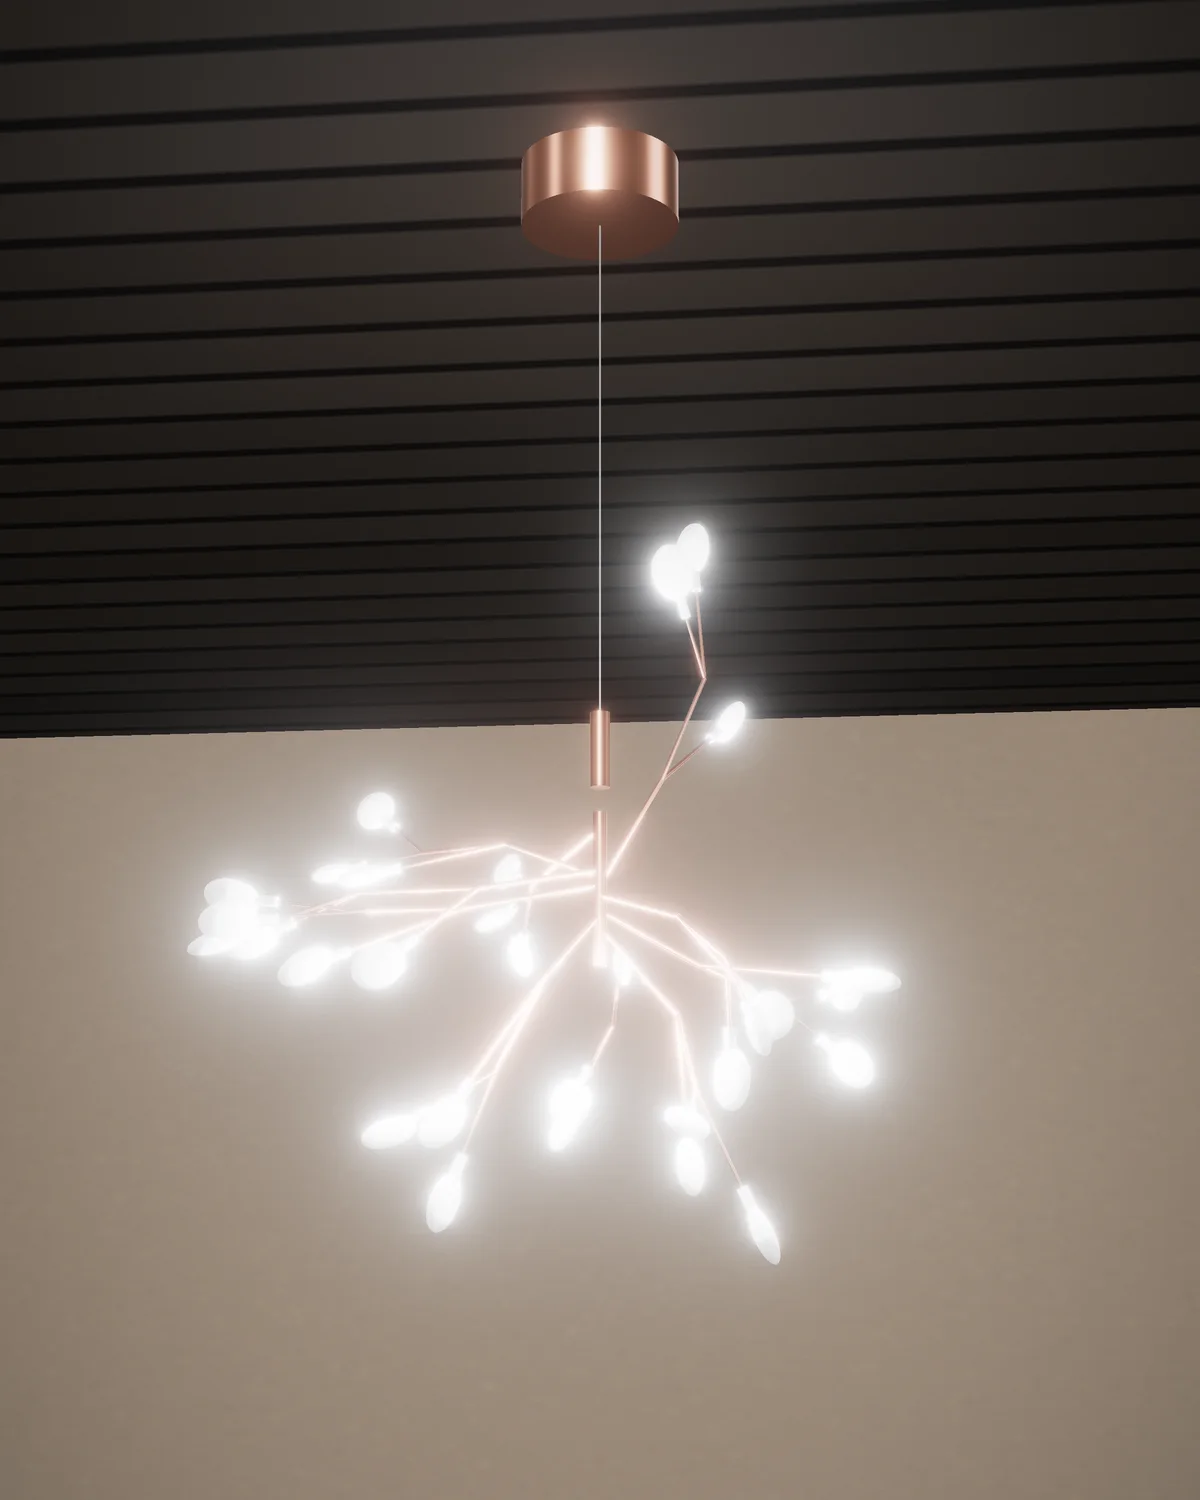
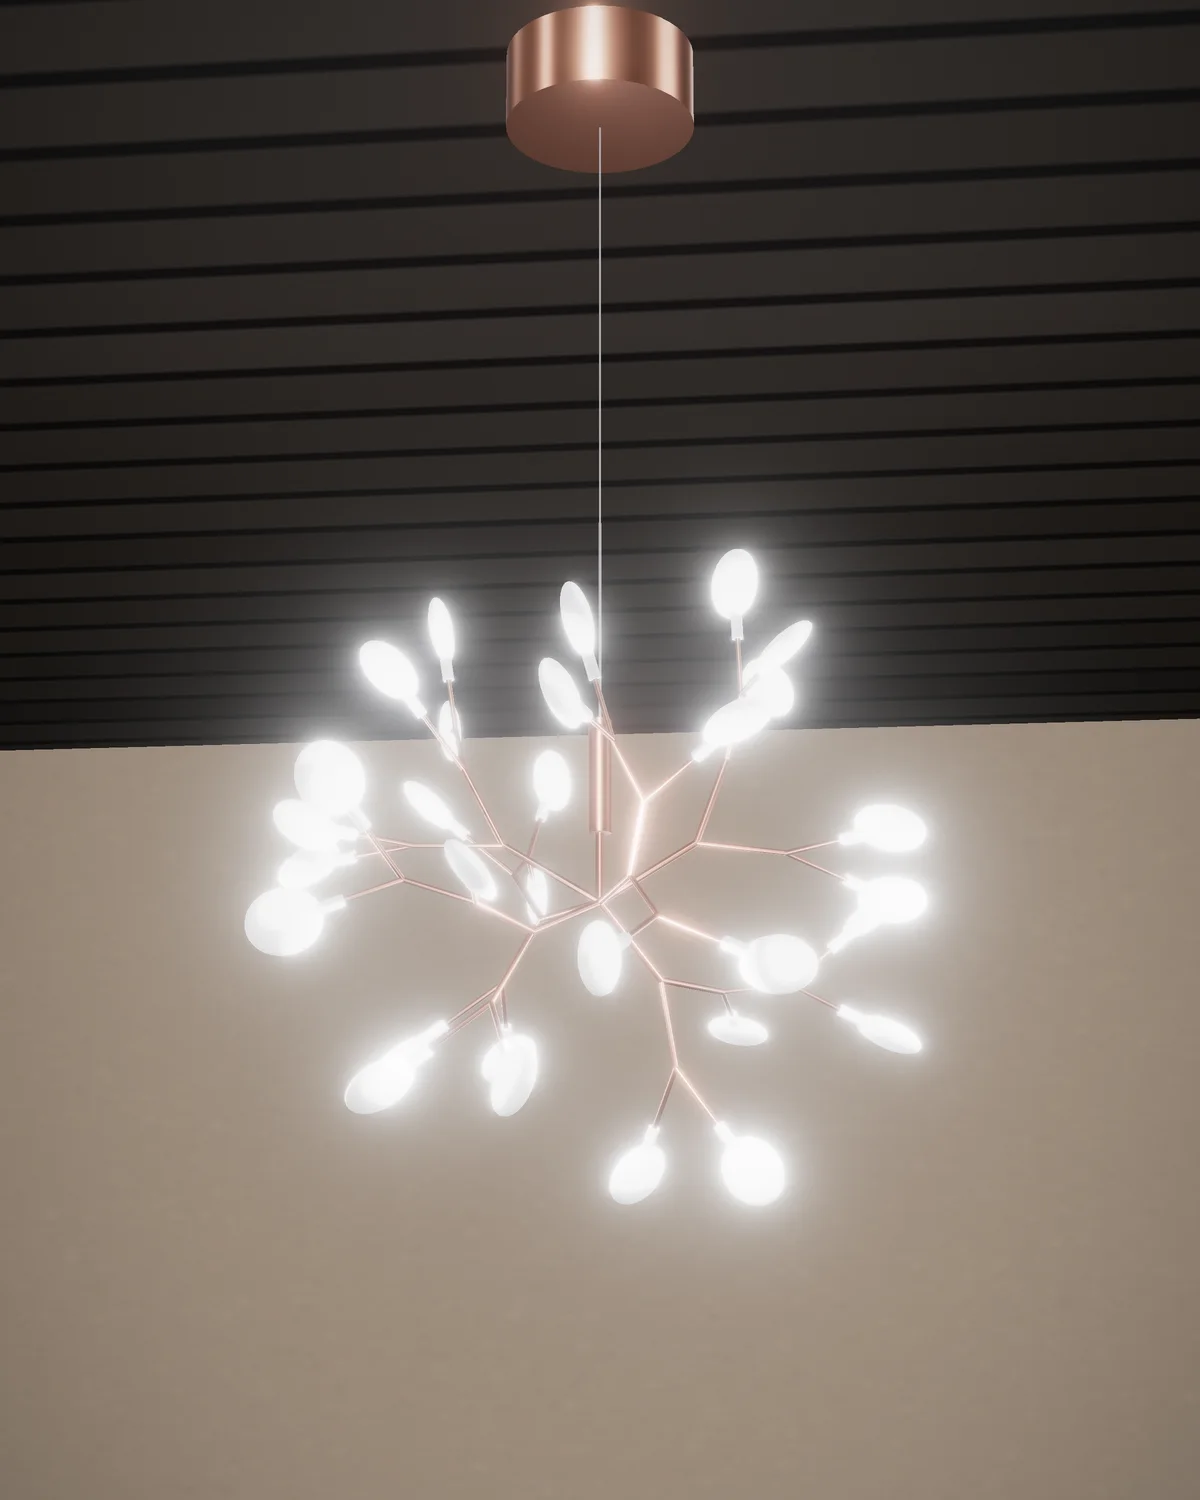
LUMÉANCE : Luciole Ø50 — rendus refaits d'après la photo fabricant
Nœud central sous un manchon, 6 branches maîtresses ramifiées en Y
(5 diffuseurs chacune, 30 au total), silhouette en boule de 50 cm ;
8 rendus (4 structures × 2 lumières).

Claude-Session: https://claude.ai/code/session_01TDDveFcW3GdVAgEH7JeJuL

Changed region(s): [[0.0, 0.276, 1.0, 0.8587], [0.0, 0.0, 1.0, 0.2453]]

diff --git a/lumeance/scripts/render/scene-luciole.html b/lumeance/scripts/render/scene-luciole.html
@@ -88,7 +88,7 @@ function tip(at, dir) {
   rod(at, h, 0.0042, holderMat);
   const c = h.clone().addScaledVector(dir, 0.019);
   const m = new THREE.Mesh(diffGeo, diffMat);
-  m.position.copy(c); m.scale.set(0.017, 0.022, 0.0075);
+  m.position.copy(c); m.scale.set(form === "stem" ? 0.021 : 0.017, form === "stem" ? 0.023 : 0.022, 0.0075);
   m.quaternion.setFromUnitVectors(new THREE.Vector3(0, 1, 0), dir);
   m.rotateY(rand() * Math.PI);
   group.add(m);
@@ -130,15 +130,34 @@ if (form === "ring") {
     cluster(o, out, reach);
   }
 } else if (form === "stem") {
-  const hub = new THREE.Vector3(0, Y0 + 0.05, 0);
-  const top = sleeve(hub.clone().add(new THREE.Vector3(0, 0.02, 0)));
-  rod(hub.clone().add(new THREE.Vector3(0, -0.12, 0)), hub, 0.006, metal);
-  cable(top, new THREE.Vector3(0, -0.055, 0));
-  for (let i = 0; i < clusters; i++) {
-    const u = 1 - (2 * (i + 0.5)) / clusters, a = i * 2.39996 + rand() * 0.3;
-    const out = new THREE.Vector3(Math.sqrt(1 - u * u) * Math.cos(a), u * 0.75 - 0.1, Math.sqrt(1 - u * u) * Math.sin(a)).normalize();
-    cluster(hub.clone().add(new THREE.Vector3(0, -rand() * 0.1, 0)), out, W * 0.42);
+  // Ø50 (photo fabricant « 30 lights ») : câble unique → manchon → courte tige → nœud central ;
+  // 6 branches maîtresses (2 montantes, 2 latérales, 2 descendantes) ramifiées en Y comme un arbre,
+  // 5 diffuseurs ronds chacune (30 au total) ; silhouette en boule d'environ 50 cm.
+  const hub = new THREE.Vector3(0, Y0, 0);
+  const slBottom = hub.clone().add(new THREE.Vector3(0, 0.045, 0));
+  const sl = new THREE.Mesh(new THREE.CylinderGeometry(0.0075, 0.0075, 0.075, 12), metal);
+  sl.position.copy(slBottom).add(new THREE.Vector3(0, 0.0375, 0)); group.add(sl);
+  rod(hub, slBottom, 0.003, metal);
+  cable(slBottom.clone().add(new THREE.Vector3(0, 0.075, 0)), new THREE.Vector3(0, -0.055, 0));
+  const deg = Math.PI / 180;
+  const dirOf = (az, el) => new THREE.Vector3(Math.cos(el * deg) * Math.cos(az * deg), Math.sin(el * deg), Math.cos(el * deg) * Math.sin(az * deg));
+  // Fourche en Y : les deux branches s'ouvrent symétriquement autour de la direction, dans un plan
+  // qui alterne (horizontal / vertical) à chaque niveau, avec un léger écart aléatoire.
+  function limb(origin, d, len, tips, depth = 0) {
+    const end = origin.clone().addScaledVector(d, len);
+    rod(origin, end, tips > 2 ? 0.0024 : 0.0018, metal);
+    if (tips === 1) { tip(end, d); return; }
+    const ref = depth % 2 === 0 ? new THREE.Vector3(0, 1, 0) : new THREE.Vector3(-d.z, 0, d.x);
+    let axis = new THREE.Vector3().crossVectors(d, ref);
+    if (axis.lengthSq() < 1e-4) axis = new THREE.Vector3(1, 0, 0);
+    axis.normalize().applyAxisAngle(d, (rand() - 0.5) * 0.6);
+    const sp = (32 + rand() * 10) * deg;
+    const a = Math.ceil(tips / 2), b2 = tips - a;
+    limb(end, d.clone().applyAxisAngle(axis, sp).normalize(), len * 0.8, a, depth + 1);
+    limb(end, d.clone().applyAxisAngle(axis, -sp).normalize(), len * 0.8, b2, depth + 1);
   }
+  const limbs = [[0, 30], [180, 26], [60, 4], [240, -2], [120, -24], [300, -38]];
+  limbs.forEach(([az, el]) => limb(hub, dirOf(az + (rand() - 0.5) * 20, el + (rand() - 0.5) * 10), 0.072, Math.round(LIGHTS / limbs.length)));
 } else {
   const L = W - 0.2;
   rod(new THREE.Vector3(-L / 2, Y0, 0), new THREE.Vector3(L / 2, Y0, 0), 0.0085, metal);
@@ -150,11 +169,11 @@ if (form === "ring") {
   }
 }
 // Quelques sources réelles pour éclairer la pièce (la lueur des diffuseurs est rendue par le bloom).
-for (let k = 0; k < 8; k++) { const a = (k / 8) * Math.PI * 2; const pl = new THREE.PointLight(LIGHT, 0.14, 5, 2); pl.position.set(Math.cos(a) * W * 0.35, Y0 - 0.08, Math.sin(a) * W * 0.25); scene.add(pl); }
+for (let k = 0; k < 8; k++) { const a = (k / 8) * Math.PI * 2; const pl = new THREE.PointLight(LIGHT, 0.14, 5, 2); const rr = Math.max(W * 0.35, 0.45); pl.position.set(Math.cos(a) * rr, Y0 - 0.08, Math.sin(a) * rr * 0.7 - 0.2); scene.add(pl); }
 
 // ── Caméra : légère contre-plongée, comme les photos du fabricant ──
 const camera = new THREE.PerspectiveCamera(34, WIDTH / HEIGHT, 0.02, 50);
-const span = Math.max(1.15, (W + 0.5) * (HEIGHT / WIDTH) * 0.9);
+const span = form === "stem" ? 0.95 : Math.max(1.15, (W + 0.5) * (HEIGHT / WIDTH) * 0.9);
 const dist = span / (2 * Math.tan(THREE.MathUtils.degToRad(17)));
 camera.position.set(dist * 0.1, Y0 - span * 0.32, dist * 0.98);
 camera.lookAt(0, Y0 + 0.1, 0);
